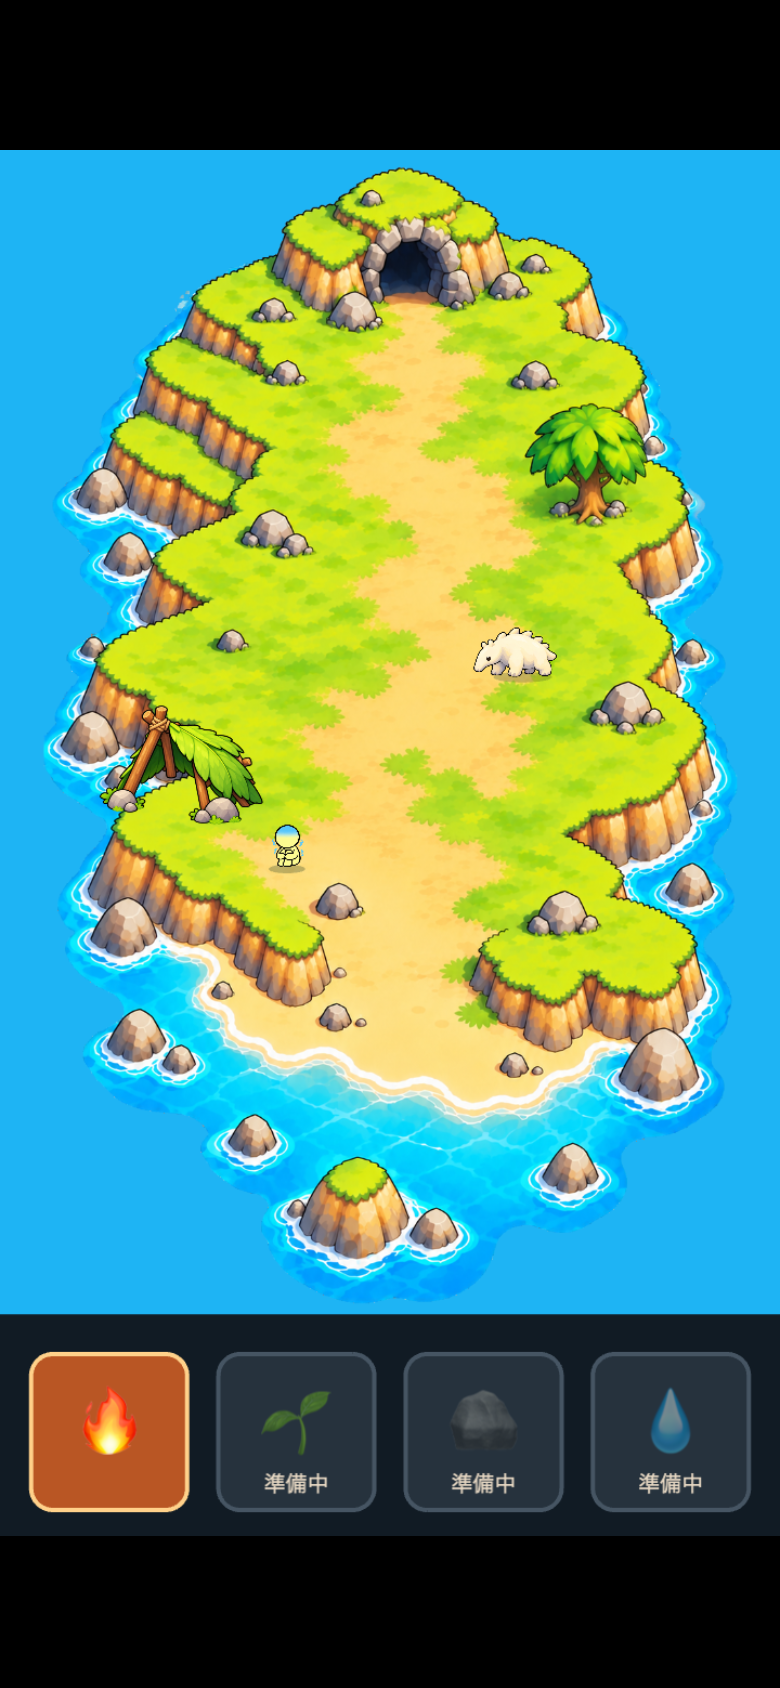
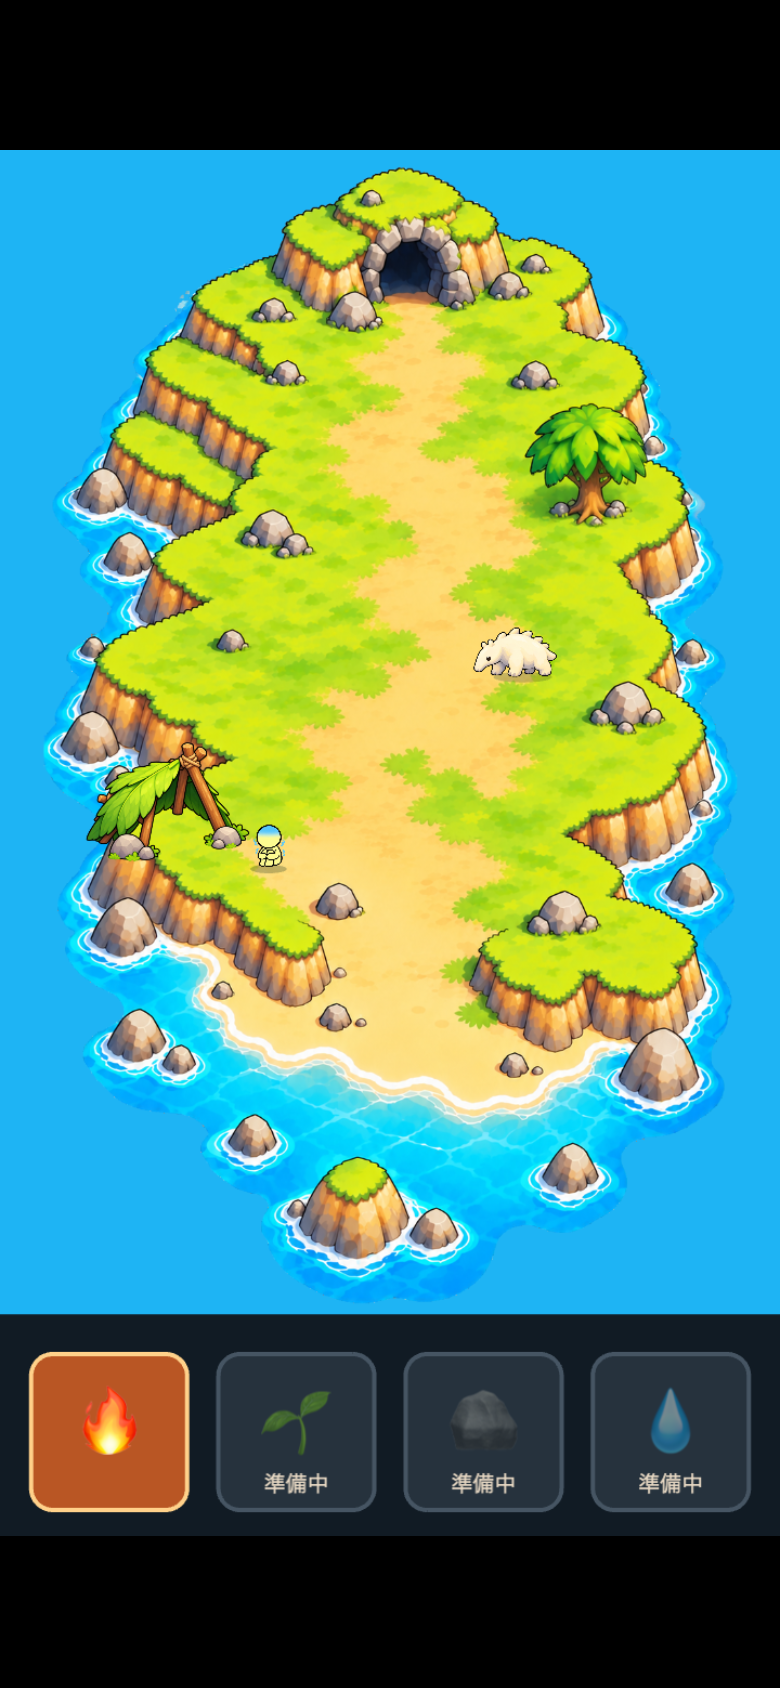
fix: align shelter and fire with reference

Changed region(s): [[0.1231, 0.4005, 0.4, 0.5237]]

diff --git a/src/presentation/worldAssets.test.ts b/src/presentation/worldAssets.test.ts
@@ -11,6 +11,7 @@ import {
   WORLD_ASSET_DIR,
   WORLD_ASSET_LIST,
   WORLD_WATER_COLOR,
+  groundOrigin,
   type WorldAsset,
 } from './worldAssets';
 
@@ -93,7 +94,8 @@ describe('world asset metadata', () => {
       groundAnchor: { x: 212, y: 296 },
       baseScale: 0.37,
       placementSpace: 'island',
-      placement: { x: 190, y: 890 },
+      placement: { x: 165, y: 940 },
+      flipX: true,
     });
     expect(WORLD_ASSETS.animal).toMatchObject({
       groundAnchor: { x: 290, y: 300 },
@@ -103,8 +105,17 @@ describe('world asset metadata', () => {
     expect(WORLD_ASSETS.fire).toMatchObject({
       groundAnchor: { x: 128, y: 246 },
       baseScale: 0.22,
-      placement: { x: 590, y: 940 },
+      placement: { x: 462, y: 950 },
     });
+  });
+
+  it('mirrors only the shelter and converts its anchor into a mirrored origin', () => {
+    expect(WORLD_ASSET_LIST.filter((asset) => asset.flipX === true)).toEqual([WORLD_ASSETS.shelter]);
+    const shelter = groundOrigin(WORLD_ASSETS.shelter);
+    expect(shelter.x).toBeCloseTo(1 - 212 / 423, 10);
+    expect(shelter.y).toBeCloseTo(296 / 306, 10);
+    const fire = groundOrigin(WORLD_ASSETS.fire);
+    expect(fire.x).toBeCloseTo(128 / 256, 10);
   });
 
   it('sizes the shelter to about 80x50 logical px at the 360x640 reference', () => {
@@ -207,7 +218,8 @@ interface Box {
 
 // Where a ground-anchored sprite lands on the design canvas.
 function footprint(asset: WorldAsset, ground: { x: number; y: number }): Box {
-  const left = ground.x - asset.groundAnchor.x * asset.baseScale;
+  const origin = groundOrigin(asset);
+  const left = ground.x - origin.x * asset.width * asset.baseScale;
   const top = ground.y - asset.groundAnchor.y * asset.baseScale;
   return {
     left,
@@ -223,6 +235,24 @@ const overlaps = (a: Box, b: Box): boolean =>
 // The human's drawn extent around a ground point: the 512px canvas at the
 // shared sprite scale is far larger than the figure, so use a generous box.
 const humanBox = (x: number, y: number): Box => ({ left: x - 16, right: x + 16, top: y - 56, bottom: y + 6 });
+
+// True when an opaque pixel of the (mirrored) shelter PNG lies inside `box`.
+function shelterPixelsInside(box: Box): boolean {
+  const { png } = load(WORLD_ASSETS.shelter);
+  const asset = WORLD_ASSETS.shelter;
+  const origin = groundOrigin(asset);
+  const left = LAYOUT.shelter.x - origin.x * asset.width * asset.baseScale;
+  const top = LAYOUT.shelter.y - origin.y * asset.height * asset.baseScale;
+  for (let py = 0; py < png.height; py += 1) {
+    for (let px = 0; px < png.width; px += 1) {
+      if (alphaAt(png, px, py) < 128) continue;
+      const screenX = left + (asset.flipX ? png.width - 1 - px : px) * asset.baseScale;
+      const screenY = top + py * asset.baseScale;
+      if (screenX > box.left && screenX < box.right && screenY > box.top && screenY < box.bottom) return true;
+    }
+  }
+  return false;
+}
 
 const SHELTER = footprint(WORLD_ASSETS.shelter, LAYOUT.shelter);
 const FIRE = footprint(WORLD_ASSETS.fire, LAYOUT.fire);
@@ -271,20 +301,45 @@ describe('world layout', () => {
 
   it('keeps the human walk from the shelter to the fire unobstructed', () => {
     for (const box of pathBoxes(LAYOUT.humanStart, LAYOUT.humanWarm)) {
-      expect(overlaps(box, SHELTER)).toBe(false);
+      expect(shelterPixelsInside(box)).toBe(false);
       expect(overlaps(box, FIRE)).toBe(false);
       expect(overlaps(box, ANIMAL_REACH)).toBe(false);
     }
-    // The human starts beside the shelter and stops short of the fire.
-    expect(LAYOUT.humanStart.x).toBeGreaterThan(SHELTER.right);
-    expect(LAYOUT.humanWarm.x).toBeLessThan(FIRE.left);
+    // The human starts immediately right of the shelter art and stops just left
+    // of the fire stones, on the same ground band.
+    expect(shelterPixelsInside(humanBox(LAYOUT.humanStart.x, LAYOUT.humanStart.y))).toBe(false);
+    expect(LAYOUT.humanStart.x - 16).toBeGreaterThan(SHELTER.left + (SHELTER.right - SHELTER.left) * 0.5);
+    expect(LAYOUT.humanWarm.x + 16).toBeLessThan(FIRE.left);
+    expect(FIRE.left - (LAYOUT.humanWarm.x + 16)).toBeLessThan(30);
+    expect(LAYOUT.humanWarm.y).toBe(LAYOUT.humanStart.y);
+    expect(Math.abs(LAYOUT.fire.y - LAYOUT.humanStart.y)).toBeLessThan(8);
+    expect(Math.abs(LAYOUT.shelter.y - LAYOUT.humanStart.y)).toBeLessThan(8);
+  });
+
+  it('reproduces the reference arrangement: shelter left, human, then fire to the right', () => {
+    expect(LAYOUT.shelter.x).toBeLessThan(LAYOUT.humanStart.x);
+    expect(LAYOUT.humanStart.x).toBeLessThan(LAYOUT.humanWarm.x);
+    expect(LAYOUT.humanWarm.x).toBeLessThan(LAYOUT.fire.x);
+    expect(SHELTER.right).toBeLessThan(FIRE.left);
+    expect(overlaps(SHELTER, FIRE)).toBe(false);
+    // Fire sits at island x 450-470, in front of the human group rather than far right.
+    const islandX = (LAYOUT.fire.x - LAYOUT.island.x) / WORLD_ASSETS.island.baseScale + WORLD_ASSETS.island.groundAnchor.x;
+    expect(islandX).toBeGreaterThanOrEqual(450);
+    expect(islandX).toBeLessThanOrEqual(470);
+  });
+
+  it('leaves a visible walk that completes inside the approach Wave', () => {
+    const distance = LAYOUT.humanWarm.x - LAYOUT.humanStart.x;
+    expect(distance).toBeGreaterThanOrEqual(50);
+    // Wave 2 walk window: 48% of 3200 ms at 0.144 design px/ms.
+    expect(distance / 0.144).toBeLessThan(3200 * 0.48);
   });
 
   it('keeps the dev walk-preview loop clear of the shelter, fire and animal', () => {
     const loop = LAYOUT.humanWalkPreview;
     loop.forEach((from, index) => {
       for (const box of pathBoxes(from, loop[(index + 1) % loop.length])) {
-        expect(overlaps(box, SHELTER)).toBe(false);
+        expect(shelterPixelsInside(box)).toBe(false);
         expect(overlaps(box, FIRE)).toBe(false);
         expect(overlaps(box, ANIMAL_REACH)).toBe(false);
       }

diff --git a/src/presentation/animation.test.ts b/src/presentation/animation.test.ts
@@ -22,6 +22,11 @@ const [WAVE1, WAVE2, WAVE3] = [
   WAVE_DURATIONS_MS.humanWarmsUp,
 ];
 
+// Logical time the human needs to walk from the start to the fire at the fixed
+// walk speed. Mid-walk samples below are taken as fractions of this, so they
+// stay mid-walk whatever the layout distance is.
+const WALK_MS = (LAYOUT.humanWarm.x - LAYOUT.humanStart.x) / HUMAN_WALK_SPEED_PX_PER_MS;
+
 function startedGame(waves?: readonly Wave[]): SliceGame {
   const game = new SliceGame(waves ? { waves } : {});
   game.selectElement('fire');
@@ -180,7 +185,7 @@ describe('human pose', () => {
       ...wave,
       durationMs: wave.durationMs * 2,
     }));
-    const walkElapsedMs = 750;
+    const walkElapsedMs = WALK_MS * 0.6;
     const at = (waves: readonly Wave[] | undefined, durationScale: number) => {
       const game = startedGame(waves);
       game.advance(WAVE1 * durationScale + WAVE2 * durationScale * WALK_START + walkElapsedMs);
@@ -199,7 +204,8 @@ describe('human pose', () => {
   });
 
   it('walks the same path at any render step size and any playback speed', () => {
-    const walkMs = WAVE1 + WAVE2 * 0.75;
+    // Rounded to 40 ms so every step size below lands exactly on the sample time.
+    const walkMs = Math.round((WAVE1 + WAVE2 * WALK_START + WALK_MS * 0.5) / 40) * 40;
     const poseAfter = (stepMs: number, playbackSpeed: number) => {
       const game = new SliceGame({ playbackSpeed });
       game.selectElement('fire');
@@ -246,8 +252,9 @@ describe('human pose', () => {
     const slow = new SliceGame({ playbackSpeed: 0.5 });
     const fast = new SliceGame({ playbackSpeed: 2 });
     for (const game of [slow, fast]) game.selectElement('fire');
-    slow.advance(7600);
-    fast.advance(1900);
+    const logicalMs = WAVE1 + WAVE2 * WALK_START + WALK_MS * 0.5;
+    slow.advance(logicalMs * 2);
+    fast.advance(logicalMs / 2);
     expect(computeHumanPose(slow.snapshot())).toEqual(computeHumanPose(fast.snapshot()));
     expect(computeHumanPose(slow.snapshot()).walk).not.toBeNull();
   });

diff --git a/src/presentation/worldAssets.ts b/src/presentation/worldAssets.ts
@@ -22,6 +22,16 @@ export interface WorldAsset {
   readonly baseScale: number;
   readonly placementSpace: PlacementSpace;
   readonly placement: Point;
+  // Render the PNG mirrored left-right. groundAnchor stays in the unflipped PNG's
+  // pixels; groundOrigin() converts it. The PNG itself is never edited.
+  readonly flipX?: boolean;
+}
+
+// Sprite origin (0..1) that puts the asset's ground anchor on its placement
+// point, taking flipX into account.
+export function groundOrigin(asset: WorldAsset): Point {
+  const x = asset.groundAnchor.x / asset.width;
+  return { x: asset.flipX ? 1 - x : x, y: asset.groundAnchor.y / asset.height };
 }
 
 export const WORLD_ASSETS = {
@@ -37,8 +47,10 @@ export const WORLD_ASSETS = {
     placementSpace: 'design',
     placement: { x: 360, y: 16 },
   },
-  // Provisional stage-1 shelter, beside the human's starting spot. Scale 0.37
-  // gives about 78x57 logical px at the 360x640 reference (target ~80x50).
+  // Provisional stage-1 shelter in the lower-left living area, level with the
+  // human and fire. The art faces left, so it is mirrored: roof to the left, open
+  // side toward the human and fire. Scale 0.37 gives about 78x57 logical px at
+  // the 360x640 reference (target ~80x50).
   shelter: {
     textureKey: 'world-shelter',
     filename: 'shelter-stage1.png',
@@ -47,7 +59,8 @@ export const WORLD_ASSETS = {
     groundAnchor: { x: 212, y: 296 },
     baseScale: 0.37,
     placementSpace: 'island',
-    placement: { x: 190, y: 890 },
+    placement: { x: 165, y: 940 },
+    flipX: true,
   },
   // The one white fantasy creature, grazing on the right-hand grass terrace.
   // The art faces left and is never mirrored.
@@ -70,7 +83,7 @@ export const WORLD_ASSETS = {
     groundAnchor: { x: 128, y: 246 },
     baseScale: 0.22,
     placementSpace: 'island',
-    placement: { x: 590, y: 940 },
+    placement: { x: 462, y: 950 },
   },
 } as const satisfies Record<string, WorldAsset>;
 

diff --git a/src/presentation/layout.ts b/src/presentation/layout.ts
@@ -51,11 +51,11 @@ export const LAYOUT = {
   animal: assetGround(WORLD_ASSETS.animal),
   // Front: shelter, human, fire on the sand, with the open path kept free.
   shelter: assetGround(WORLD_ASSETS.shelter),
-  humanStart: onIsland(330, 950),
-  humanWarm: onIsland(500, 950),
+  humanStart: onIsland(305, 950),
+  humanWarm: onIsland(392, 950),
   // Dev-only review loop (?humanWalkPreview): a rectangle that walks right,
   // down, left, then up so each approved view can be checked on a phone screen.
-  humanWalkPreview: [onIsland(330, 850), onIsland(500, 850), onIsland(500, 960), onIsland(330, 960)] as readonly Point[],
+  humanWalkPreview: [onIsland(320, 760), onIsland(520, 760), onIsland(520, 850), onIsland(320, 850)] as readonly Point[],
   fire: assetGround(WORLD_ASSETS.fire),
   // Empty ground on purpose, so later growth has room to appear: the central
   // sand path and the beach in front of it.

diff --git a/src/presentation/IslandScene.ts b/src/presentation/IslandScene.ts
@@ -29,6 +29,7 @@ import {
   WORLD_ASSET_DIR,
   WORLD_ASSET_LIST,
   WORLD_WATER_COLOR,
+  groundOrigin,
   type WorldAsset,
 } from './worldAssets';
 
@@ -337,9 +338,11 @@ export class IslandScene extends Phaser.Scene {
   // A sprite standing on its ground anchor: the origin is the anchor as a
   // fraction of the PNG, so position and scale act on the ground contact point.
   private addGroundSprite(asset: WorldAsset, x: number, y: number): Phaser.GameObjects.Image {
+    const origin = groundOrigin(asset);
     return this.add
       .image(x, y, asset.textureKey)
-      .setOrigin(asset.groundAnchor.x / asset.width, asset.groundAnchor.y / asset.height)
+      .setOrigin(origin.x, origin.y)
+      .setFlipX(asset.flipX === true)
       .setScale(asset.baseScale)
       .setDepth(y);
   }
